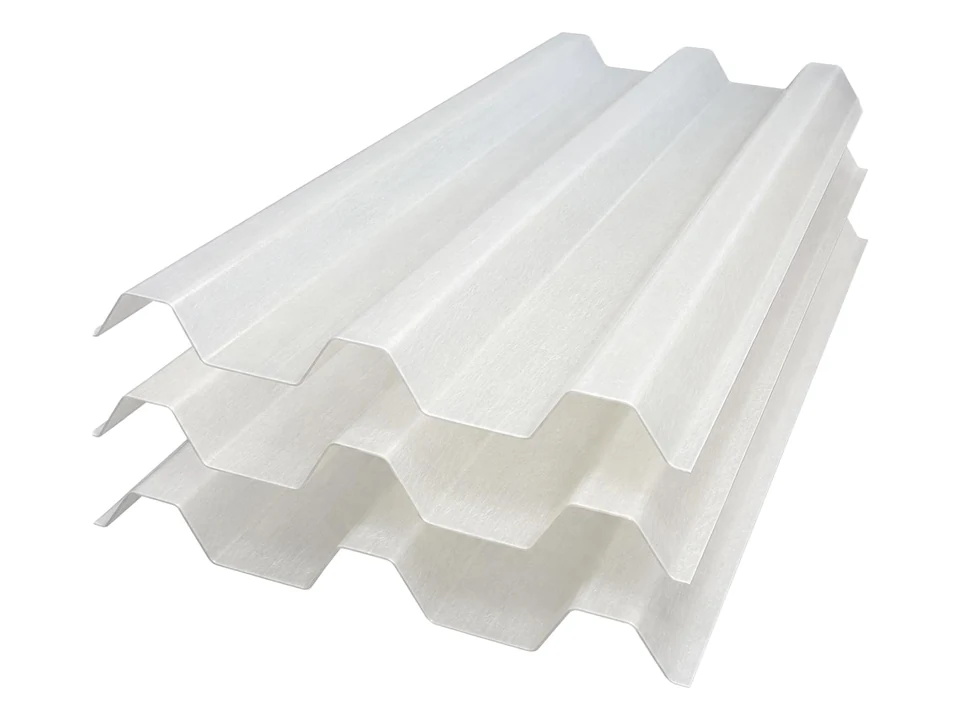
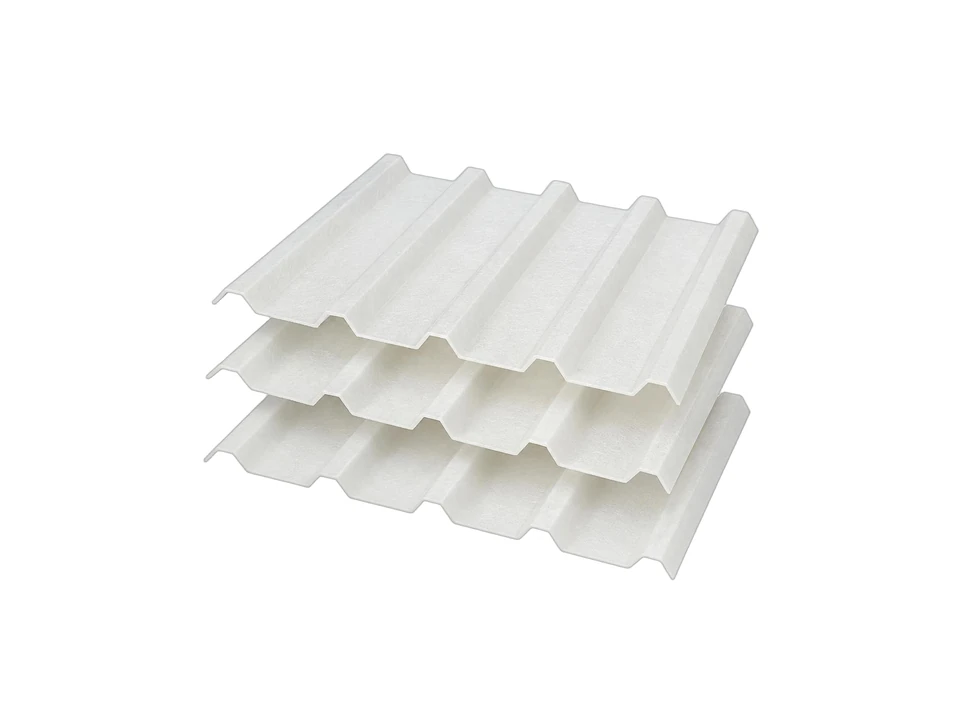
PC지붕판·FRP 홑겹 5골 형상 교체 + 짧은 한글 카피

Changed region(s): [[0.0938, 0.0306, 0.9062, 0.9472], [0.0938, 0.7028, 0.125, 0.7333]]

diff --git a/products.html b/products.html
@@ -66,7 +66,7 @@
 <section class="hub-cat" id="sandwich"><h2>샌드위치패널</h2><p>보통 컬러강판(스틸)으로 만들어진 이중 벽 구조를 가진 패널로, 내부에 단열재가 채워져 있어 열 및 소음 차단 효과가 뛰어납니다.</p><div class="hub-grid"><a class="hub-item" href="eps_panel.html"><div class="thumb"><img src="img/thumb/hub-eps_panel.webp" width="427" height="360" alt="EPS패널" loading="lazy" decoding="async"></div><div class="hb"><b>EPS패널</b><span>가장 경제적인 비용으로 건축물을 시공할 수 있는 대표적 패널입니다.</span></div></a><a class="hub-item" href="glass_panel.html"><div class="thumb"><img src="img/thumb/hub-glass_panel.webp" width="480" height="333" alt="그라스울패널" loading="lazy" decoding="async"></div><div class="hb"><b>그라스울패널</b><span>화재 시 인체에 유해한 유독가스가 발생하지 않아 화재로부터 위험을 극소화 시킬 수 있는 패널입니다.</span></div></a><a class="hub-item" href="urethane_panel.html"><div class="thumb"><img src="img/thumb/hub-urethane_panel.webp" width="480" height="360" alt="우레탄패널" loading="lazy" decoding="async"></div><div class="hb"><b>우레탄패널</b><span>방화성능과 뛰어난 단열성을 가진 패널입니다.</span></div></a></div></section>
 <section class="hub-cat" id="steel"><h2>컬러강판</h2><p>강판 표면에 특수 도료를 코팅하여 내식성과 내구성을 향상시킨 제품으로, 건축 및 건설 산업에서 내·외벽재로 널리 사용됩니다.</p><div class="hub-grid"><a class="hub-item" href="zinc_panel.html"><div class="thumb"><img src="img/thumb/hub-zinc_panel.webp" width="473" height="360" alt="징크강판" loading="lazy" decoding="async"></div><div class="hb"><b>징크강판</b><span>아연 도금된 강판으로, 내식성이 뛰어나고 오랜 기간 사용해도 부식이 적은 장점을 가지고 있습니다.</span></div></a><a class="hub-item" href="roof_panel.html"><div class="thumb"><img src="img/thumb/hub-roof_panel.webp" width="480" height="342" alt="지붕강판" loading="lazy" decoding="async"></div><div class="hb"><b>지붕강판</b><span>단열재가 없는 홑강판(컬러강판)으로, 가벼워 축사·돈사 등에 쓰이며 노후 지붕 덧방용으로도 사용됩니다.</span></div></a><a class="hub-item" href="louver_steel.html"><div class="thumb"><img src="img/thumb/hub-louver_steel.webp" width="480" height="360" alt="루버강판" loading="lazy" decoding="async"></div><div class="hb"><b>루버강판</b><span>가벼우면서도 강도가 높아서 건물의 빛과 통풍을 유지하면서도 안전하게 사용됩니다.</span></div></a><a class="hub-item" href="v115.html"><div class="thumb"><img src="img/thumb/hub-v115.webp" width="480" height="208" alt="V-115" loading="lazy" decoding="async"></div><div class="hb"><b>V-115</b><span>고온 환경에서의 사용에 적합하며 내식성과 내구성이 뛰어납니다.</span></div></a><a class="hub-item" href="pe_foam.html"><div class="thumb"><img src="img/thumb/hub-pe_foam.webp" width="480" height="273" alt="PE폼" loading="lazy" decoding="async"></div><div class="hb"><b>PE폼</b><span>경량이면서도 내구성이 뛰어나고 충격 흡수 능력이 높아서 패키징 및 보호재로 사용됩니다.</span></div></a><a class="hub-item" href="color_palette.html"><div class="thumb"><img src="img/thumb/hub-color_palette-mix.webp" width="510" height="294" alt="색상표" loading="lazy" decoding="async"></div><div class="hb"><b>색상표</b><span>해상도의 차이로 실제 색상은 다를 수 있으므로 주문하실 때에는 실제 색상을 확인 후 선택하시기 바랍니다.</span></div></a></div></section>
 <section class="hub-cat" id="acc"><h2>부자재</h2><p>판넬 설치와 고정, 밀폐 등을 지원하여 구조적 완성도와 내구성을 높여주는 보조 자재입니다.</p><div class="hub-grid"><a class="hub-item" href="flashing.html"><div class="thumb"><img src="img/thumb/hub-flashing.webp" width="297" height="162" alt="후레싱" loading="lazy" decoding="async"></div><div class="hb"><b>후레싱</b><span>다양한 부자재를 통하여 정교하고 깔끔한 마무리를 할 수 있습니다.</span></div></a><a class="hub-item" href="water_pan.html"><div class="thumb"><img src="img/thumb/hub-water_pan.webp" width="273" height="199" alt="물받이시스템" loading="lazy" decoding="async"></div><div class="hb"><b>물받이시스템</b><span>건물의 지붕이나 외벽을 따라 빗물을 모아 배수하는 구조물로, 건물 손상을 방지하고 물을 효율적으로 처리하는 역할을 합니다.</span></div></a><a class="hub-item" href="clean_room.html"><div class="thumb"><img src="img/thumb/hub-clean_room.webp" width="380" height="251" alt="크린룸자재" loading="lazy" decoding="async"></div><div class="hb"><b>크린룸자재</b><span>청정 환경을 유지하거나 온도, 습도,압력 등의 환경관리를 위해 먼지와 오염 물질 차단 기능을 갖춘 특수 소재로 제작된 자재입니다.</span></div></a><a class="hub-item" href="panel_accessories.html"><div class="thumb"><img src="img/thumb/hub-panel_accessories.webp" width="198" height="153" alt="부속자재" loading="lazy" decoding="async"></div><div class="hb"><b>부속자재</b><span>판넬의 완성도를 높여주기 위한 자재입니다.</span></div></a></div></section>
-<section class="hub-cat" id="pcfrp"><h2>PC/FRP</h2><p>채광·비가림용 PC지붕판과 FRP 채광판입니다.</p><div class="hub-grid"><a class="hub-item" href="pc_roof.html"><div class="thumb"><img src="img/thumb/hub-pc_roof.webp" width="480" height="360" alt="PC지붕판" loading="lazy" decoding="async"></div><div class="hb"><b>PC지붕판</b><span>폴리카보네이트 지붕·채광판입니다. 복층·단층·골판으로 공장·축사·비가림에 쓰입니다.</span></div></a><a class="hub-item" href="frp.html"><div class="thumb"><img src="img/thumb/hub-frp.webp" width="480" height="360" alt="FRP" loading="lazy" decoding="async"></div><div class="hb"><b>FRP</b><span>유리섬유강화 채광판입니다. 칼라강판 골형과 맞춰 공장·창고·축사 자연채광에 씁니다.</span></div></a></div></section>
+<section class="hub-cat" id="pcfrp"><h2>PC/FRP</h2><p>채광·비가림용 PC지붕판과 FRP 채광판입니다.</p><div class="hub-grid"><a class="hub-item" href="pc_roof.html"><div class="thumb"><img src="img/thumb/hub-pc_roof.webp" width="480" height="360" alt="PC지붕판" loading="lazy" decoding="async"></div><div class="hb"><b>PC지붕판</b><span>폴리카보네이트 홑겹 골판 지붕·채광판입니다. 가볍고 투광이 좋아 공장·축사·비가림에 쓰입니다.</span></div></a><a class="hub-item" href="frp.html"><div class="thumb"><img src="img/thumb/hub-frp.webp" width="480" height="360" alt="FRP" loading="lazy" decoding="async"></div><div class="hb"><b>FRP</b><span>유리섬유강화 홑겹 채광판입니다. 칼라강판 골형과 맞춰 확산광으로 공장·창고·축사 자연채광에 씁니다.</span></div></a></div></section>
 <section class="hub-cat" id="door"><h2>도어</h2><p>다양한 재료로 제작되어 내구성과 보안성을 제공하는 건축 자재입니다.</p><div class="hub-grid"><a class="hub-item" href="hanger_door.html"><div class="thumb"><img src="img/thumb/hub-hanger_door.webp" width="339" height="360" alt="행거도어" loading="lazy" decoding="async"></div><div class="hb"><b>행거도어</b><span>경량으로 작동감이 유연하며 방음 및 단열성이 우수합니다.</span></div></a><a class="hub-item" href="swing_door.html"><div class="thumb"><img src="img/thumb/hub-swing_door.webp" width="480" height="324" alt="스윙도어" loading="lazy" decoding="async"></div><div class="hb"><b>스윙도어</b><span>각 접합 부위가 완전 밀봉되어 기밀성을 보존하고 분진이 부착되어도 쉽게 세척 제거 할 수 있습니다.</span></div></a><a class="hub-item" href="abs_door.html"><div class="thumb"><img src="img/thumb/hub-abs_door.webp" width="158" height="360" alt="ABS도어" loading="lazy" decoding="async"></div><div class="hb"><b>ABS도어</b><span>내구성과 방수성이 뛰어난 ABS 수지로 만든 경량의 도어입니다.</span></div></a><a class="hub-item" href="fire_door.html"><div class="thumb"><img src="img/thumb/hub-fire_door.webp" width="174" height="360" alt="방화문" loading="lazy" decoding="async"></div><div class="hb"><b>방화문</b><span>화재 시 불과 연기의 확산을 막아 안전을 보장하는 내화성이 뛰어난 도어입니다.</span></div></a><a class="hub-item" href="main_door.html"><div class="thumb"><img src="img/thumb/hub-main_door.webp" width="192" height="360" alt="현관문" loading="lazy" decoding="async"></div><div class="hb"><b>현관문</b><span>건물의 출입구에 설치되어 보안과 단열을 제공하는 기능적이고 내구성 있는 도어입니다.</span></div></a><a class="hub-item" href="sliding_door.html"><div class="thumb"><img src="img/thumb/hub-sliding_door.webp" width="225" height="360" alt="3연동도어" loading="lazy" decoding="async"></div><div class="hb"><b>3연동도어</b><span>문이 세 개의 패널로 구성되어, 슬라이딩 방식으로 열리고 닫히면서 공간 활용을 최적화하는 도어 시스템입니다.</span></div></a></div></section>
 <section class="hub-cat" id="metal"><h2>메탈사이딩</h2><p>내구성이 뛰어나고 유지보수가 쉬우며, 날씨 변화에도 강하고 화재에도 저항력이 있습니다.</p><div class="hub-grid"><a class="hub-item" href="modern_longstone.html"><div class="thumb cover"><img src="img/thumb/hub-modern_longstone.webp" width="480" height="214" alt="모던롱스톤" loading="lazy" decoding="async"></div><div class="hb"><b>모던롱스톤</b><span>깔끔하고 모던한 롱스톤 패턴으로, 현대적인 건축물에 적합합니다.</span></div></a><a class="hub-item" href="classic_longstone.html"><div class="thumb cover"><img src="img/thumb/hub-classic_longstone.webp" width="480" height="214" alt="클래식롱스톤" loading="lazy" decoding="async"></div><div class="hb"><b>클래식롱스톤</b><span>전통적인 석재의 길고 직사각형 형태를 재현한 메탈사이딩입니다.</span></div></a><a class="hub-item" href="wide_stone.html"><div class="thumb cover"><img src="img/thumb/hub-wide_stone.webp" width="480" height="214" alt="와이드스톤" loading="lazy" decoding="async"></div><div class="hb"><b>와이드스톤</b><span>대형 건축물이나 상업용 건물에 적합하며, 유지보수가 용이합니다.</span></div></a><a class="hub-item" href="limestone.html"><div class="thumb cover"><img src="img/thumb/hub-limestone.webp" width="480" height="214" alt="라임스톤" loading="lazy" decoding="async"></div><div class="hb"><b>라임스톤</b><span>라임스톤은 석회석 패턴을 적용한 외장재를 의미합니다.
 주로 알루미늄 또는 아연 도금강판 위에 천연 라임스톤의 독특한 질감을 구현하여 자연스러운 외관을 제공합니다.</span></div></a><a class="hub-item" href="arieta.html"><div class="thumb cover"><img src="img/thumb/hub-arieta.webp" width="480" height="214" alt="아리에타" loading="lazy" decoding="async"></div><div class="hb"><b>아리에타</b><span>메탈사이딩 중에서도 섬세하고 세련된 패턴을 특징을 가지고 있습니다.</span></div></a><a class="hub-item" href="standard_brick.html"><div class="thumb cover"><img src="img/thumb/hub-standard_brick.webp" width="480" height="214" alt="스탠다드브릭" loading="lazy" decoding="async"></div><div class="hb"><b>스탠다드브릭</b><span>전통적인 벽돌의 외관을 유지하면서도 금속의 기능적 장점을 제공합니다.</span></div></a><a class="hub-item" href="stucco_marvel.html"><div class="thumb cover"><img src="img/thumb/hub-stucco_marvel.webp" width="480" height="214" alt="스타코&amp;마블스톤" loading="lazy" decoding="async"></div><div class="hb"><b>스타코&amp;마블스톤</b><span>고급스러운 외관과 함께 방수, 내화성 등의 기능을 제공합니다.</span></div></a><a class="hub-item" href="spendral.html"><div class="thumb cover"><img src="img/thumb/hub-spendral.webp" width="480" height="214" alt="스팬드럴" loading="lazy" decoding="async"></div><div class="hb"><b>스팬드럴</b><span>방수 및 내화성 기능을 가지고 있으며, 다양한 건축 스타일에 맞춰 사용 가능합니다.</span></div></a><a class="hub-item" href="antique_brick.html"><div class="thumb cover"><img src="img/thumb/hub-antique_brick.webp" width="480" height="214" alt="앤틱브릭" loading="lazy" decoding="async"></div><div class="hb"><b>앤틱브릭</b><span>앤틱한 느낌의 벽돌 패턴을 가진 메탈사이딩입니다.</span></div></a><a class="hub-item" href="metal_accessories.html"><div class="thumb"><img src="img/thumb/hub-metal_accessories.webp" width="323" height="267" alt="부자재" loading="lazy" decoding="async"></div><div class="hb"><b>부자재</b><span>메탈사이딩 패널을 설치하고 마감하는 데 사용되는 보조 자재로, 코너, 엣지, 조인트 등을 보완하여 외관의 완성도와 내구성을 높입니다.</span></div></a></div></section>

diff --git a/pc_roof.html b/pc_roof.html
@@ -4,7 +4,7 @@
 <meta charset="utf-8">
 <meta name="viewport" content="width=device-width, initial-scale=1, viewport-fit=cover">
 <title>PC지붕판 | PC/FRP | ㈜네오판넬</title>
-<meta name="description" content="폴리카보네이트로 만든 투명·반투명 지붕·채광재입니다. 복층판·단층골판·V-250 복층골판으로 공장·창고·축사 지붕과 비가림에 사용합니다.">
+<meta name="description" content="폴리카보네이트로 만든 투명·반투명 홑겹 골판 지붕·채광재입니다. 가볍고 충격에 강하며 공장·창고·축사 지붕과 비가림에 사용합니다.">
 <link rel="canonical" href="https://www.neo-panel.com/pc_roof">
 <meta name="theme-color" content="#eaf4fc">
 <meta name="apple-itunes-app" content="app-id=6807864957">
@@ -12,7 +12,7 @@
 <meta property="og:site_name" content="㈜네오판넬">
 <meta property="og:locale" content="ko_KR">
 <meta property="og:title" content="PC지붕판 | PC/FRP | ㈜네오판넬">
-<meta property="og:description" content="폴리카보네이트로 만든 투명·반투명 지붕·채광재입니다. 복층판·단층골판·V-250 복층골판으로 공장·창고·축사 지붕과 비가림에 사용합니다.">
+<meta property="og:description" content="폴리카보네이트로 만든 투명·반투명 홑겹 골판 지붕·채광재입니다. 가볍고 충격에 강하며 공장·창고·축사 지붕과 비가림에 사용합니다.">
 <meta property="og:url" content="https://www.neo-panel.com/pc_roof">
 <meta property="og:image" content="https://www.neo-panel.com/img/p/pc_roof/001_pc_roof_hub.png">
 <meta name="twitter:card" content="summary_large_image">
@@ -69,8 +69,8 @@
   <aside class="side" aria-label="PC/FRP 메뉴"><div class="side-box"><h2>PC/FRP</h2><ul><li><a href="pc_roof.html" aria-current="page">PC지붕판</a></li><li><a href="frp.html">FRP</a></li></ul></div><div class="side-help"><b>전화 상담</b><a class="tel" href="tel:041-548-0484">041-548-0484</a><a class="btn btn-primary" href="https://junghakrok-prog.github.io/" target="_blank" rel="noopener">3D로 바로 견적 →</a></div></aside>
   <article class="content">
 <h1>PC지붕판</h1>
-<p class="lead">폴리카보네이트로 만든 투명·반투명 지붕·채광재입니다. 복층판·단층골판·V-250 복층골판으로 공장·창고·축사 지붕과 비가림에 사용합니다.</p>
-<figure class="fig"><a class="zoom" href="img/p/pc_roof/001_pc_roof_hub.webp" data-cap="PC지붕판 형상"><picture><source type="image/webp" srcset="img/p/pc_roof/001_pc_roof_hub.webp"><img src="img/p/pc_roof/001_pc_roof_hub.png" width="960" height="720" alt="PC지붕판 — 투명·오팔 복층 골판 폴리카보네이트 지붕·채광판 형상" loading="lazy" decoding="async"></picture></a><figcaption>PC지붕판 형상 (복층·골판 폴리카보네이트)</figcaption></figure>
+<p class="lead">폴리카보네이트로 만든 투명·반투명 홑겹 골판 지붕·채광재입니다. 가볍고 충격에 강하며 공장·창고·축사 지붕과 비가림에 사용합니다.</p>
+<figure class="fig"><a class="zoom" href="img/p/pc_roof/001_pc_roof_hub.webp" data-cap="PC지붕판 형상"><picture><source type="image/webp" srcset="img/p/pc_roof/001_pc_roof_hub.webp"><img src="img/p/pc_roof/001_pc_roof_hub.png" width="960" height="720" alt="PC지붕판 — 투명 홑겹 골판 폴리카보네이트 지붕·채광판 형상" loading="lazy" decoding="async"></picture></a><figcaption>PC지붕판 형상 (홑겹 골판 폴리카보네이트)</figcaption></figure>
 <p class="tx note">두께·색상·길이는 현장 용도에 맞춰 전화로 안내해 드립니다.</p>
 <nav class="pager" aria-label="같은 분류 이전·다음"><a class="next" href="frp.html"><small>다음 →</small><b>FRP</b></a></nav>
   </article>

diff --git a/frp.html b/frp.html
@@ -4,7 +4,7 @@
 <meta charset="utf-8">
 <meta name="viewport" content="width=device-width, initial-scale=1, viewport-fit=cover">
 <title>FRP | PC/FRP | ㈜네오판넬</title>
-<meta name="description" content="유리섬유강화플라스틱(FRP) 채광판입니다. V-250 등 칼라강판 골형에 맞춰 공장·창고·축사·온실의 자연채광에 사용합니다.">
+<meta name="description" content="유리섬유강화플라스틱(FRP) 홑겹 채광판입니다. V-250 등 칼라강판 골형에 맞춰 빛을 부드럽게 확산시키며, 공장·창고·축사·온실의 자연채광에 사용합니다.">
 <link rel="canonical" href="https://www.neo-panel.com/frp">
 <meta name="theme-color" content="#eaf4fc">
 <meta name="apple-itunes-app" content="app-id=6807864957">
@@ -12,7 +12,7 @@
 <meta property="og:site_name" content="㈜네오판넬">
 <meta property="og:locale" content="ko_KR">
 <meta property="og:title" content="FRP | PC/FRP | ㈜네오판넬">
-<meta property="og:description" content="유리섬유강화플라스틱(FRP) 채광판입니다. V-250 등 칼라강판 골형에 맞춰 공장·창고·축사·온실의 자연채광에 사용합니다.">
+<meta property="og:description" content="유리섬유강화플라스틱(FRP) 홑겹 채광판입니다. V-250 등 칼라강판 골형에 맞춰 빛을 부드럽게 확산시키며, 공장·창고·축사·온실의 자연채광에 사용합니다.">
 <meta property="og:url" content="https://www.neo-panel.com/frp">
 <meta property="og:image" content="https://www.neo-panel.com/img/p/frp/001_frp_hub.png">
 <meta name="twitter:card" content="summary_large_image">
@@ -69,8 +69,8 @@
   <aside class="side" aria-label="PC/FRP 메뉴"><div class="side-box"><h2>PC/FRP</h2><ul><li><a href="pc_roof.html">PC지붕판</a></li><li><a href="frp.html" aria-current="page">FRP</a></li></ul></div><div class="side-help"><b>전화 상담</b><a class="tel" href="tel:041-548-0484">041-548-0484</a><a class="btn btn-primary" href="https://junghakrok-prog.github.io/" target="_blank" rel="noopener">3D로 바로 견적 →</a></div></aside>
   <article class="content">
 <h1>FRP</h1>
-<p class="lead">유리섬유강화플라스틱(FRP) 채광판입니다. V-250 등 칼라강판 골형에 맞춰 공장·창고·축사·온실의 자연채광에 사용합니다.</p>
-<figure class="fig"><a class="zoom" href="img/p/frp/001_frp_hub.webp" data-cap="FRP 채광판 형상"><picture><source type="image/webp" srcset="img/p/frp/001_frp_hub.webp"><img src="img/p/frp/001_frp_hub.png" width="960" height="720" alt="FRP — V-250 골형 반투명 유리섬유강화 채광판 형상" loading="lazy" decoding="async"></picture></a><figcaption>FRP 채광판 형상 (V-250 골형 · 확산광)</figcaption></figure>
+<p class="lead">유리섬유강화플라스틱(FRP) 홑겹 채광판입니다. V-250 등 칼라강판 골형에 맞춰 빛을 부드럽게 확산시키며, 공장·창고·축사·온실의 자연채광에 사용합니다.</p>
+<figure class="fig"><a class="zoom" href="img/p/frp/001_frp_hub.webp" data-cap="FRP 채광판 형상"><picture><source type="image/webp" srcset="img/p/frp/001_frp_hub.webp"><img src="img/p/frp/001_frp_hub.png" width="960" height="720" alt="FRP — V-250 골형 반투명 홑겹 유리섬유강화 채광판 형상" loading="lazy" decoding="async"></picture></a><figcaption>FRP 채광판 형상 (홑겹 V-250 골형 · 확산광)</figcaption></figure>
 <p class="tx note">두께·색상·길이는 현장 용도에 맞춰 전화로 안내해 드립니다.</p>
 <nav class="pager" aria-label="같은 분류 이전·다음"><a class="prev" href="pc_roof.html"><small>← 이전</small><b>PC지붕판</b></a></nav>
   </article>
